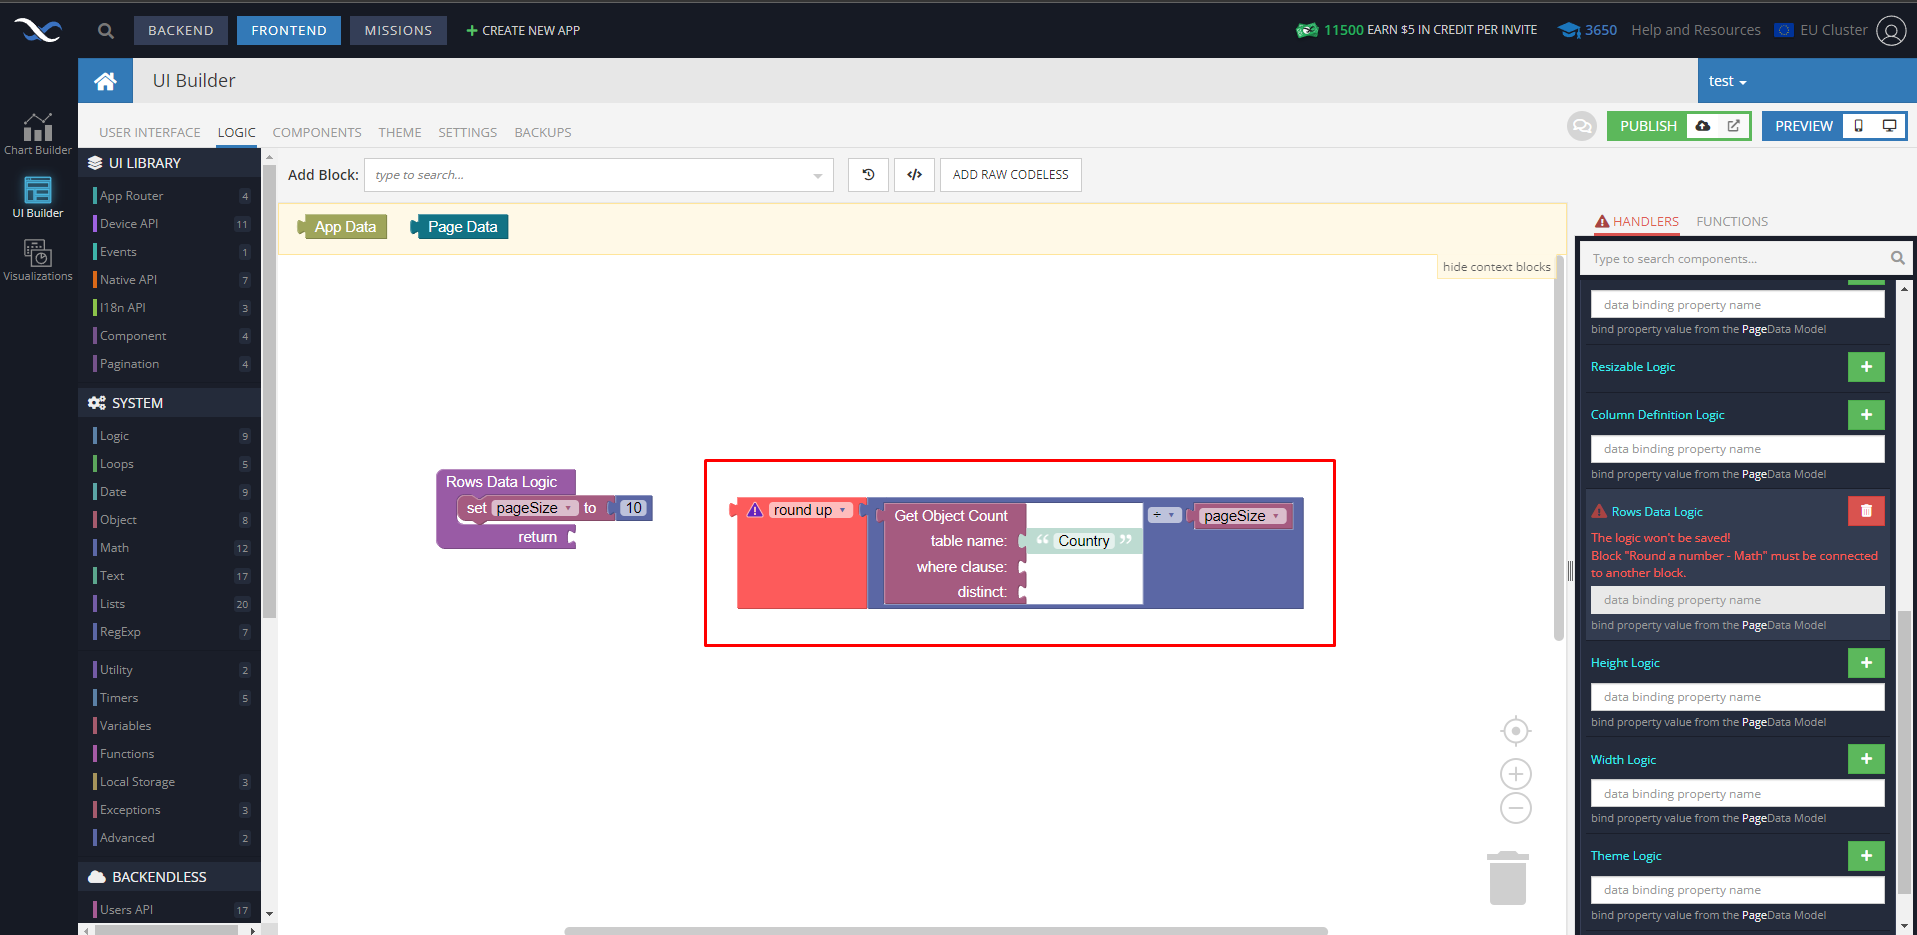
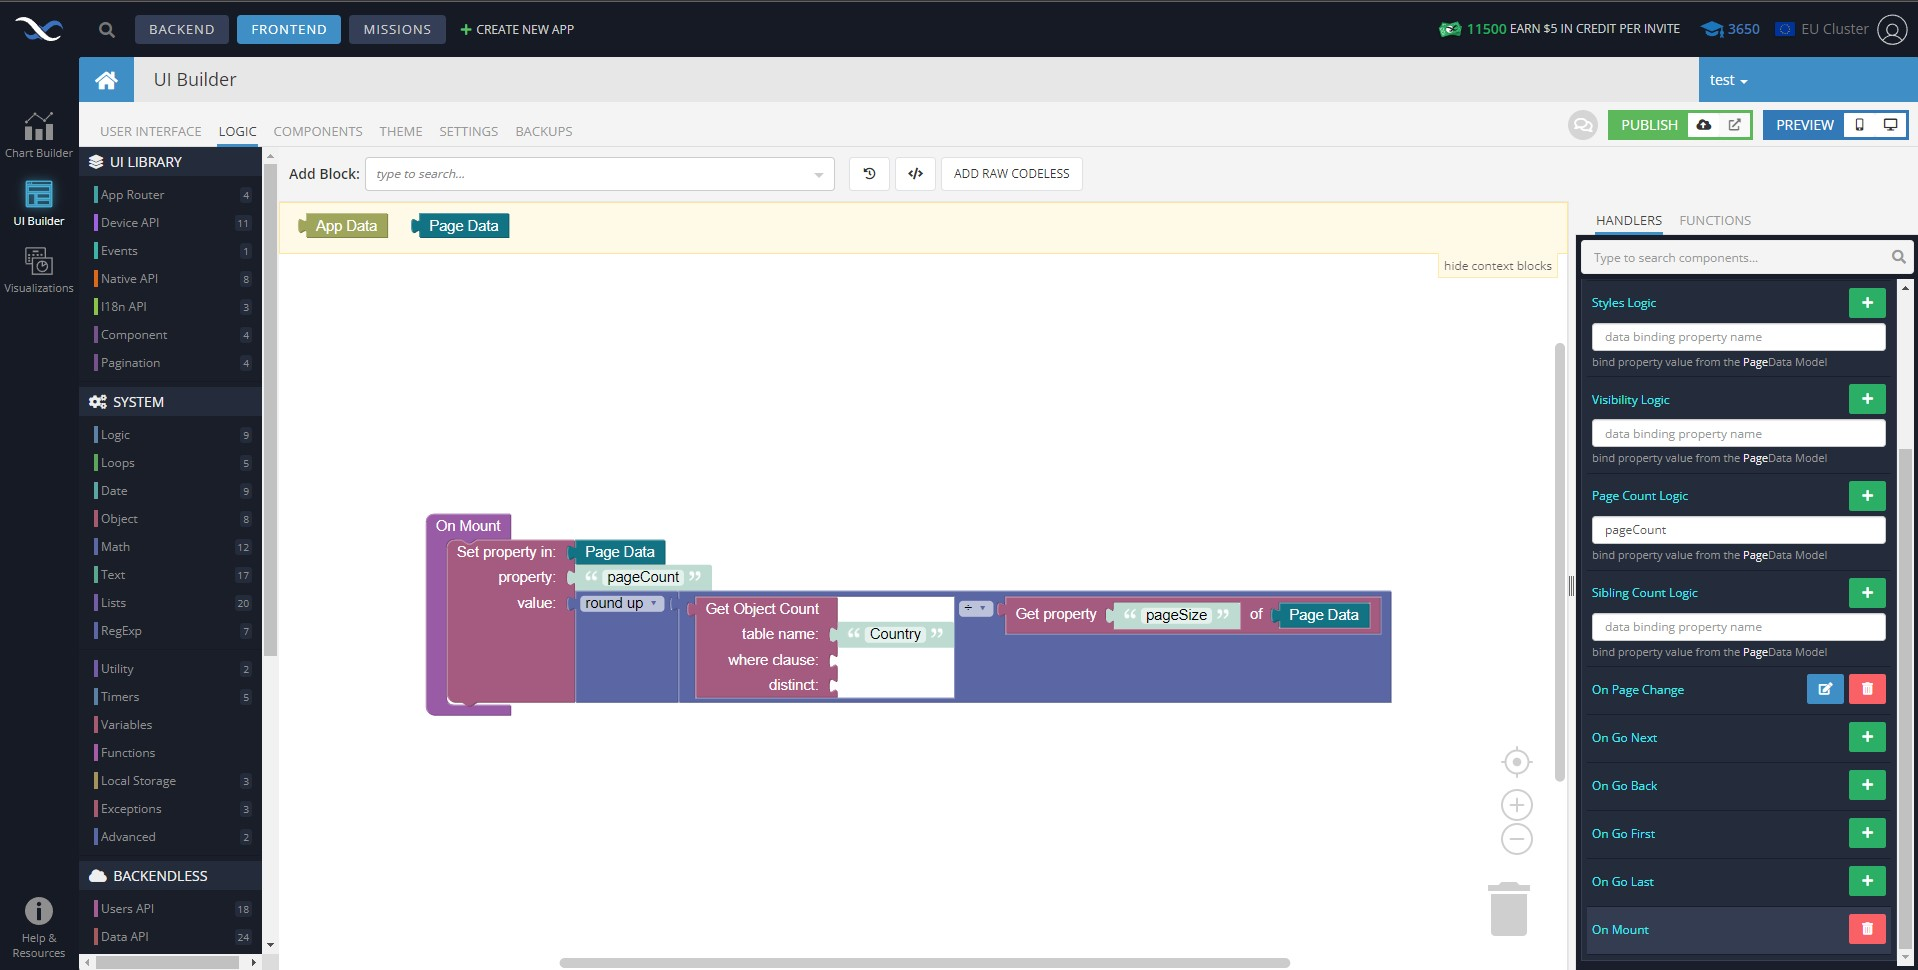
added events On Mounted and On Before Mounted, corrected README.md

diff --git a/components/bl-pagination/src/index.js b/components/bl-pagination/src/index.js
@@ -17,7 +17,7 @@ export default function Pagination({ component, eventHandlers }) {
     size,
     variant,
   } = component;
-  const { onPageChange, onGoNext, onGoBack, onGoFirst, onGoLast } = eventHandlers;
+  const { onPageChange, onGoNext, onGoBack, onGoFirst, onGoLast, onMounted, onUnmount } = eventHandlers;
 
   const [currentPage, setCurrentPage] = useState(1);
 
@@ -42,6 +42,14 @@ export default function Pagination({ component, eventHandlers }) {
   };
 
   useEffect(() => {
+    onMounted();
+
+    return () => {
+      onUnmount();
+    };
+  }, []);
+
+  useEffect(() => {
     onPageChange({ currentPage });
   }, [currentPage]);
 
@@ -60,7 +68,7 @@ export default function Pagination({ component, eventHandlers }) {
             paginationSize={ size }
             variant={ variant }
           />
-        )}
+        ) }
 
         { isPrevButtonVisible && (
           <BackButton
@@ -69,7 +77,7 @@ export default function Pagination({ component, eventHandlers }) {
             paginationSize={ size }
             variant={ variant }
           />
-        )}
+        ) }
 
         <PageList
           pageCount={ pageCount }
@@ -88,7 +96,7 @@ export default function Pagination({ component, eventHandlers }) {
             paginationSize={ size }
             variant={ variant }
           />
-        )}
+        ) }
 
         { isLastPageButtonVisible && (
           <LastPageButton
@@ -98,7 +106,7 @@ export default function Pagination({ component, eventHandlers }) {
             paginationSize={ size }
             variant={ variant }
           />
-        )}
+        ) }
       </div>
     </div>
   );

diff --git a/components/bl-pagination/README.md b/components/bl-pagination/README.md
@@ -10,26 +10,28 @@ The component based on external [pagination](https://mui.com/material-ui/react-p
 
 ## Properties
 
-| Property                                                 | Type                                                                                                  | Default Value    | Logic               | Data Binding | UI Setting | Description                                                                |
-|----------------------------------------------------------|-------------------------------------------------------------------------------------------------------|------------------|---------------------|--------------|------------|----------------------------------------------------------------------------|
-| Page Count: `pageCount`                                  | Number                                                                                                | 10               | Page Count Logic    | YES          | YES        | Allows to determine the count of pages                                     |
-| Sibling Count: `siblingCount`                            | Number                                                                                                | 1                | Sibling Count Logic | YES          | YES        | Allows to determine how many digits to display either side of current page |
-| Variant: `variant`                                       | Select [Normal: `normal`, Outline: `outline`, Rounded: `rounded`, Rounded-Outline: `rounded-outline`] | Normal: `normal` |                     | NO           | YES        | Allows to determine the variant of pagination style                        |
-| Size: `size`                                             | Select [Small: `small`, Normal: `normal`, Large: `large`]                                             | Normal: `normal` |                     | NO           | YES        | Allows to determine the size for pagination                                |
-| Is Next Button Visible: `isNextButtonVisible`            | Checkbox                                                                                              | `true`           |                     | NO           | YES        | Allows to determine the visible or not visible "Next" button               |
-| Is Prev Button Visible: `isPrevButtonVisible`            | Checkbox                                                                                              | `true`           |                     | NO           | YES        | Allows to determine the visible or not visible "Previous" button           |
-| Is First Page Button Visible: `isFirstPageButtonVisible` | Checkbox                                                                                              | `true`           |                     | NO           | YES        | Allows to determine the visible or not visible "First Page" button         |
-| Is Last Page Button Visible: `isLastPageButtonVisible`   | Checkbox                                                                                              | `true`           |                     | NO           | YES        | Allows to determine the visible or not visible "Last Page" button          |
+| Property                                      | Type                                                                                                  | Default Value    | Logic               | Data Binding | UI Setting | Description                                                                |
+|-----------------------------------------------|-------------------------------------------------------------------------------------------------------|------------------|---------------------|--------------|------------|----------------------------------------------------------------------------|
+| Page Count: `pageCount`                       | Number                                                                                                | 10               | Page Count Logic    | YES          | YES        | Allows to determine the count of pages                                     |
+| Sibling Count: `siblingCount`                 | Number                                                                                                | 1                | Sibling Count Logic | YES          | YES        | Allows to determine how many digits to display either side of current page |
+| Variant: `variant`                            | Select [Normal: `normal`, Outline: `outline`, Rounded: `rounded`, Rounded-Outline: `rounded-outline`] | Normal: `normal` |                     | NO           | YES        | Allows to determine the variant of pagination style                        |
+| Size: `size`                                  | Select [Small: `small`, Normal: `normal`, Large: `large`]                                             | Normal: `normal` |                     | NO           | YES        | Allows to determine the size for pagination                                |
+| Next Button: `isNextButtonVisible`            | Checkbox                                                                                              | `true`           |                     | NO           | YES        | Allows to determine the visible or not visible "Next" button               |
+| Previous Button: `isPrevButtonVisible`        | Checkbox                                                                                              | `true`           |                     | NO           | YES        | Allows to determine the visible or not visible "Previous" button           |
+| First Page Button: `isFirstPageButtonVisible` | Checkbox                                                                                              | `true`           |                     | NO           | YES        | Allows to determine the visible or not visible "First Page" button         |
+| Last Page Button: `isLastPageButtonVisible`   | Checkbox                                                                                              | `true`           |                     | NO           | YES        | Allows to determine the visible or not visible "Last Page" button          |
 
 ## Events
 
-| Name           | Triggered                                 | Context Block         |
-|----------------|-------------------------------------------|-----------------------|
-| On Page Change | when the current page change              | currentPage: `Number` |
-| On Go Next     | when the user clicks on next button       |                       |
-| On Go Back     | when the user clicks on back button       |                       |
-| On Go First    | when the user clicks on first-page button |                       |
-| On Go Last     | when the user clicks on last-page button  |                       |
+| Name              | Triggered                                                                                                                                                                                                       | Context Block         |
+|-------------------|-----------------------------------------------------------------------------------------------------------------------------------------------------------------------------------------------------------------|-----------------------|
+| On Mounted        | immediately after the component is mounted and appeared on the page                                                                                                                                             |                       |
+| On Before Unmount | immediately before the component is unmounted and destroyed. Perform any necessary cleanup in this method, such as invalidating timers or cleaning up any RT subscriptions that were created in this component. |                       |
+| On Page Change    | when the current page change                                                                                                                                                                                    | currentPage: `Number` |
+| On Go Next        | when the user clicks on next button                                                                                                                                                                             |                       |
+| On Go Back        | when the user clicks on back button                                                                                                                                                                             |                       |
+| On Go First       | when the user clicks on first-page button                                                                                                                                                                       |                       |
+| On Go Last        | when the user clicks on last-page button                                                                                                                                                                        |                       |
 
 ## Actions
 
@@ -71,40 +73,30 @@ Add Data Grid and Pagination component to the page:
 
 ![Add Data Grid and Pagination](./example-images/add-data-grid-and-pagination.png)
 
-### Configure the Data Grid component:
-
 Configure the columns to be displayed:
 
 ![Configure Data Grid](./example-images/configure-data-grid-1.png)
 ![Configure Data Grid](./example-images/configure-data-grid-2.png)
 
-### After we make Row Data Logic for Data Grid
+Add property “pageSize” to “Page Data” to some mount event:
 
-Make variable “pageSize” where we will save how many rows must be in one page
+![Make variable](./example-images/add-page-size-to-page-data.jpg)
 
-![Make variable](./example-images/make-variable-page-size.png)
-
-Now we need to calculate how many pages we have. For that, we use the block for getting the count of rows in our table and then divide this count by the count of rows on one page(pageSize). This result we round up for integer number:
+Now we need to calculate how many pages we have. For that, in Pagination On Mounted event we use the block for getting the count of rows in our table and then divide this count by the count of rows on one page(pageSize). This result we round up for integer number:
 
 ![Calculate pages](./example-images/calculate-page-count.png)
-
-After we set this result to “Page Data”:
-
-![Set result](./example-images/set-page-count-to-page-data.png)
-
-Now we load the table's data in “return” and calculate page offset, where “currentPage” we will get from the Pagination event “On Page Change”:
-
-![Load data](./example-images/load-data-table.png)
-
-### Now we make Logic for Pagination:
 
 Add “pageCount” from “Page Data” to data binding for Page Count Logic:
 
 ![Add pageCount](./example-images/add-page-count-to-data-binding.png)
 
-Set “currentPage” in “Page Data” in the event “On Page Change”:
+Now we load the table's data in Pagination On Page Change event and calculate page offset and set it to “Page Data”:
 
-![Set currentPage](./example-images/set-current-page-to-page-data.png)
+![Load data](./example-images/get-data-from-table.jpg)
+
+Get table data from “Page Data” to Data Grid "Rows Data Logic":
+
+![Set currentPage](./example-images/get-tabelt-data-to-rows-dtata-logic.jpg)
 
 Finally, If you want to add some logic to control events you should add action in control events: "On Go Next", "On Go Back", "On Go Last", and "On Go First".
 
